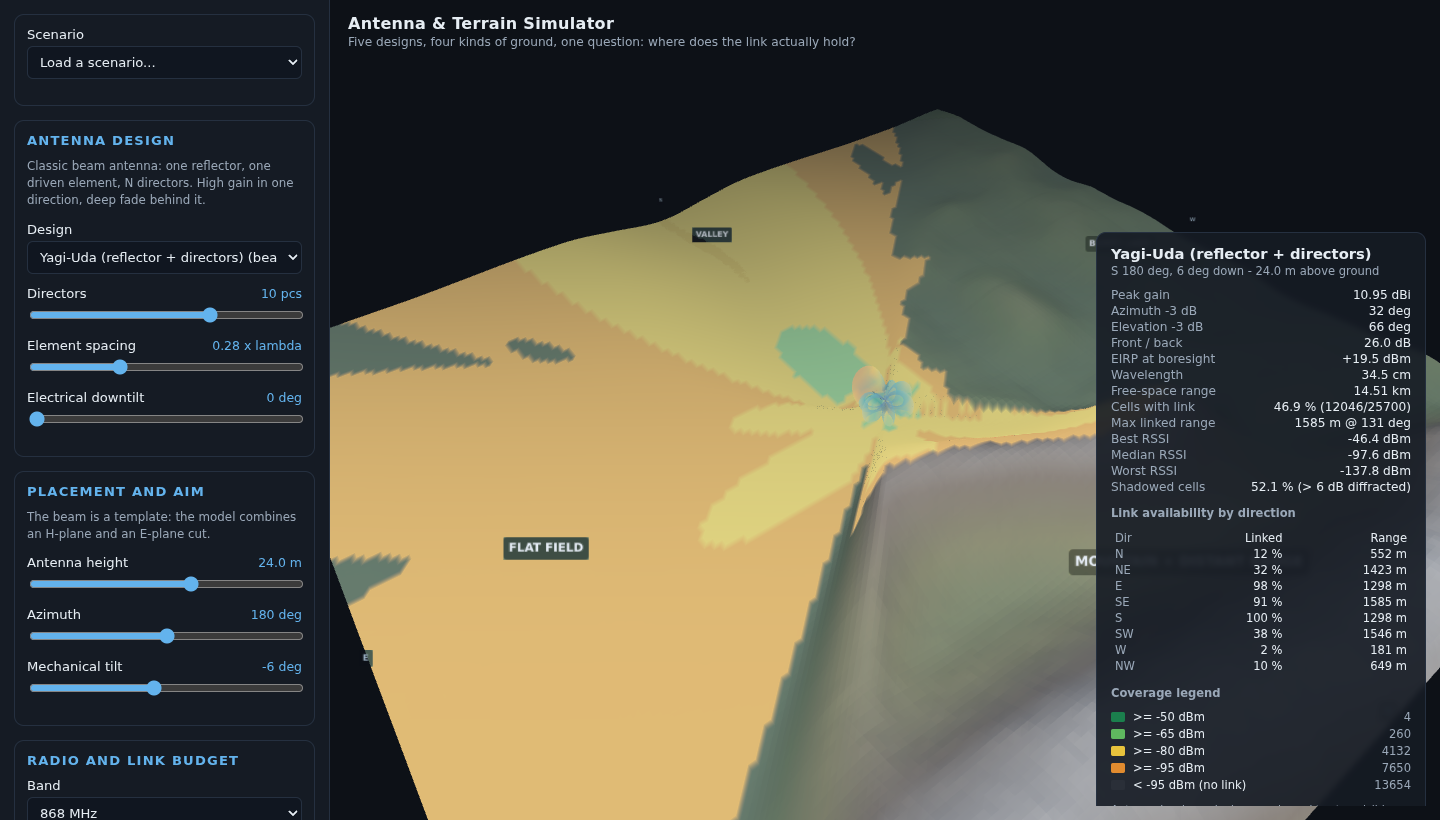
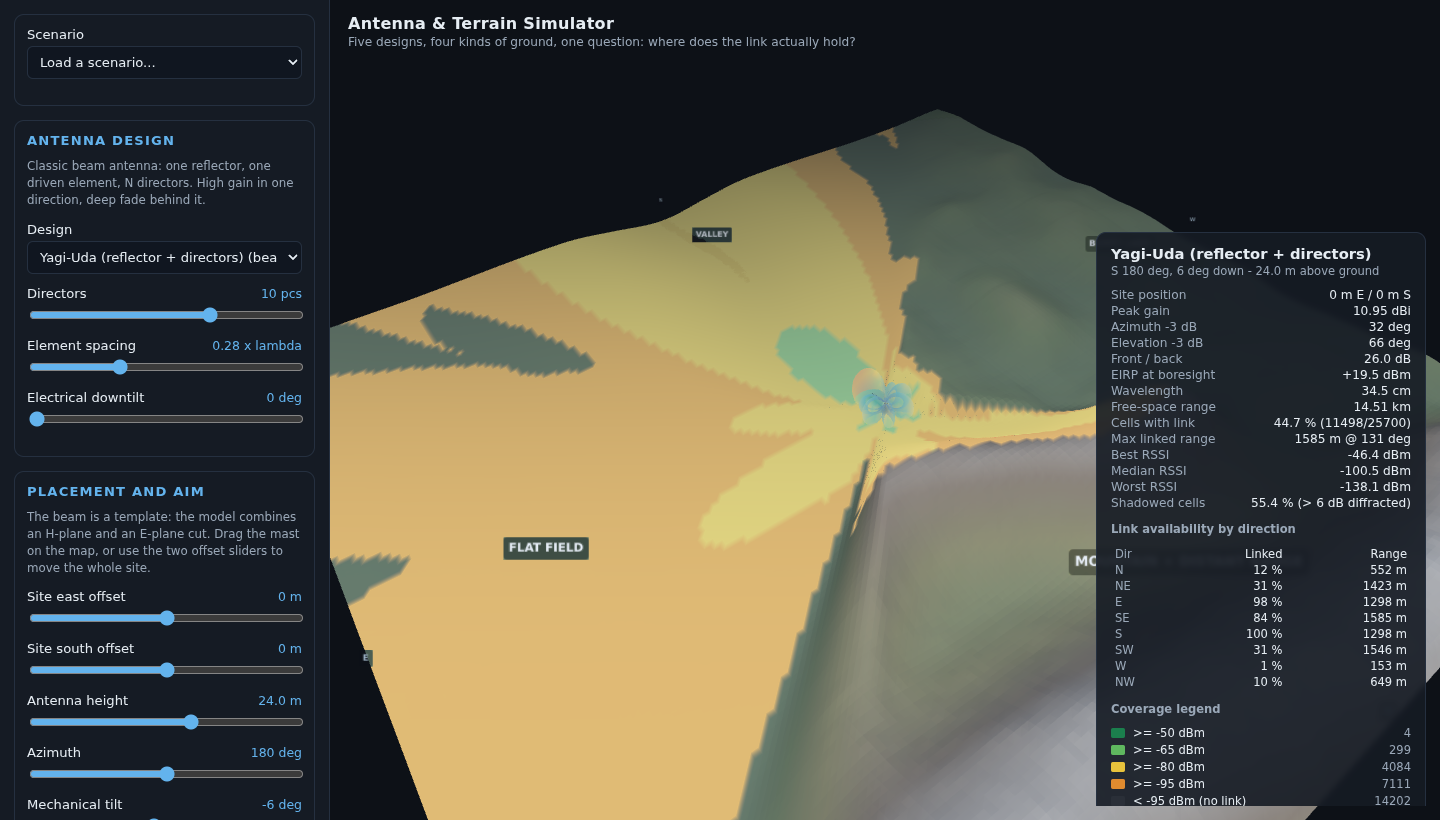
terrain: cut the site pad level with the mast's own ground, keep the valley in the south
Two connected defects made a relocated mast reshape the map:

- gradePadLevel averaged the natural ground over the whole blend reach (108 m),
  so on a ridge flank the ridge dominated the average and the platform stood tens
  of metres above the ground beside it - the hillside appeared to grow sideways
  under the antenna. The pad is now cut level with the natural ground where the
  mast stands (ctx.padElevation = naturalHeightAt(site)), a bench that cuts the
  uphill side and fills the downhill side by the local relief and no more.
- the valley floor is measured across x, so it ran the whole north-south length of
  the map: a trench through the mountain sector and through the site at the centre
  (the map centre sat at -30 m, which is why the pad needed a 37 m fill under it).
  TERRAIN.valley.northLimit/southLimit now fade the channel out north of the site,
  which is what README and GUIDELINES always claimed: a valley to the south.

Tests: pad level equals the ground at the mast at ridge corners, hilltop, valley
and centre; the pad stops at its own reach (ground 200 m away is untouched by where
the mast stands); the valley channel stays south. README/GUIDELINES updated and both
docs screenshots regenerated - they predated the placement sliders entirely.

diff --git a/tests/unit/terrain.test.js b/tests/unit/terrain.test.js
@@ -116,37 +116,66 @@ test('terrain: the site pad is flat so the mast does not float', () => {
   assert.ok(Math.abs(inner - outer) < 1, `pad edge step is ${(outer - inner).toFixed(3)} m`);
 });
 
-test('terrain: the pad is graded to the ground under it, never to a fixed height', () => {
-  // The bug this pins: the pad used to be flattened to one datum elevation, so
-  // dragging the mast onto high ground burrowed it in a pit and dropping it in
-  // the valley put it on a pedestal. The platform must follow the surface.
-  const reach = WORLD.sitePadRadius * WORLD.sitePadBlendFactor;
+test('terrain: the pad is cut level with the ground the mast stands on', () => {
+  // Two bugs this pins, both from grading the pad to something other than the
+  // ground under the mast: a fixed datum buries the mast on a hilltop and puts it
+  // on a pedestal in the valley; averaging the surrounding ground (worse over the
+  // wide blend reach) lets a ridge flank lift the platform tens of metres above
+  // the ground beside it, so the hillside appears to grow sideways under it.
+  const pad = WORLD.sitePadRadius;
   const spots = Object.entries({
+    'ridge corner': { x: 500, z: -600 },
+    'ridge corner W': { x: -500, z: -600 },
     'high ground': { x: 0, z: -900 },
     'valley floor': { x: 0, z: 900 },
-    slope: { x: -600, z: -600 },
     'map centre': { x: 0, z: 0 },
   });
   for (const [label, spot] of spots) {
     const placed = createTerrainContext({ seed: TERRAIN.seed, worldSize: WORLD.worldSize, siteX: spot.x, siteZ: spot.z });
-    // Where the mast lands, the drawn ground is exactly the pad level...
-    assert.ok(approxEqual(heightAt(spot.x, spot.z, placed), placed.padElevation, 1e-6), `${label}: base is the pad`);
-    // ...and that level sits inside the range of the real ground around it, so it
-    // is a graded platform rather than a hole dug to a datum or a filled tower.
+    const ground = naturalHeightAt(spot.x, spot.z, placed);
+    assert.ok(approxEqual(placed.padElevation, ground, 1e-9), `${label}: pad sits ${placed.padElevation - ground} m off the ground`);
+    assert.ok(approxEqual(heightAt(spot.x, spot.z, placed), ground, 1e-9), `${label}: the mast is not on the ground`);
+    assert.ok(approxEqual(heightAt(spot.x + pad * 0.9, spot.z - pad * 0.4, placed), ground, 1e-9), `${label}: the platform is not level`);
+
+    // A bench, not a landform: within the flat disc the pad may only differ from
+    // the natural surface by the relief that is already there.
     let low = Infinity;
     let high = -Infinity;
     for (let a = 0; a < 16; a += 1) {
-      const ring = naturalHeightAt(spot.x + reach * Math.cos((a / 16) * Math.PI * 2),
-        spot.z + reach * Math.sin((a / 16) * Math.PI * 2), placed);
-      low = Math.min(low, ring);
-      high = Math.max(high, ring);
+      for (const r of [pad * 0.5, pad]) {
+        const ring = naturalHeightAt(spot.x + r * Math.cos((a / 16) * Math.PI * 2),
+          spot.z + r * Math.sin((a / 16) * Math.PI * 2), placed);
+        low = Math.min(low, ring);
+        high = Math.max(high, ring);
+      }
     }
-    assert.ok(placed.padElevation > low - 1 && placed.padElevation < high + 1,
-      `${label}: pad at ${placed.padElevation.toFixed(0)} m, surrounding ground ${low.toFixed(0)}..${high.toFixed(0)} m`);
+    assert.ok(ground >= low - 1e-9 && ground <= high + 1e-9,
+      `${label}: ground at the mast ${ground.toFixed(0)} m, ground around it ${low.toFixed(0)}..${high.toFixed(0)} m`);
   }
-  // High ground stays high: 8 m above the datum is a valley number, not a hilltop one.
+  // High ground stays high: one fixed number for every pad is a valley number.
   const hill = createTerrainContext({ seed: TERRAIN.seed, worldSize: WORLD.worldSize, siteX: 0, siteZ: -900 });
   assert.ok(hill.padElevation > 100, `a mountaintop pad should be up the mountain, got ${hill.padElevation.toFixed(0)} m`);
+});
+
+test('terrain: the valley channel stays south of the site instead of cutting the map', () => {
+  // The valley floor is measured across x, so without a meridional fade it runs
+  // the whole north-south length of the map: a trench through the mountain sector
+  // and through the site at the centre, which then needs a 30 m fill under it.
+  const valley = ZONE_HEIGHT_FN[ZONES.VALLEY];
+  for (const z of [-1100, -800, -400, -200, -100]) {
+    assert.ok(valley(0, z, ctx) >= valley(500, z, ctx) - 5,
+      `z=${z}: the valley axis (${valley(0, z, ctx).toFixed(0)} m) is still cut below its shoulder (${valley(500, z, ctx).toFixed(0)} m)`);
+  }
+  // And in the south it is still the valley the README describes: a floor with
+  // raised rims either side of it.
+  assert.ok(valley(0, 900, ctx) < valley(500, 900, ctx) - 20, 'the southern valley stopped being a valley');
+  const floor = naturalHeightAt(0, 900, ctx);
+  const rim = Math.max(naturalHeightAt(350, 900, ctx), naturalHeightAt(-350, 900, ctx));
+  const outside = naturalHeightAt(900, 900, ctx);
+  assert.ok(rim > floor + 20, `valley floor ${floor.toFixed(0)} m should be well below its rim ${rim.toFixed(0)} m`);
+  assert.ok(rim > outside, `the rim (${rim.toFixed(0)} m) should stand above the ground beyond it (${outside.toFixed(0)} m)`);
+  // The site at the centre no longer sits in a pothole that has to be filled in.
+  assert.ok(Math.abs(ctx.padElevation) < 20, `the pad at the map centre needs a ${ctx.padElevation.toFixed(0)} m fill`);
 });
 
 test('terrain: profileAlong walks outward from the origin', () => {
@@ -211,11 +240,13 @@ test('terrain: the flattened pad travels with the site', () => {
   }
 
   // The pad is a property of the site, not of the map: with the site gone, the
-  // map centre is natural ground again.
+  // ground it used to flatten is natural ground again.
   assert.ok(approxEqual(heightAt(0, 0, moved), naturalHeightAt(0, 0, moved), 1e-6),
     `the abandoned centre is still a pad (${heightAt(0, 0, moved).toFixed(2)} m)`);
-  assert.ok(heightAt(0, 0, ctx) !== naturalHeightAt(0, 0, ctx),
-    'the default context keeps its graded pad at the centre');
+  assert.ok(approxEqual(heightAt(30, 0, ctx), heightAt(0, 0, ctx), 1e-6),
+    'the default context keeps its pad over the centre');
+  assert.ok(!approxEqual(heightAt(30, 0, moved), heightAt(0, 0, moved), 1e-6),
+    'the moved pad still flattens ground it no longer owns');
 
   // Relocating the antenna does not relocate the mountain.
   assert.equal(zoneAt(0, -700, moved), ZONES.MOUNTAIN, 'the zones stay keyed to the map centre');

diff --git a/src/terrain/generators.js b/src/terrain/generators.js
@@ -13,9 +13,11 @@
  *
  * The zones belong to the map; the flattened **site pad** belongs to the antenna
  * and is centred on `siteX`/`siteZ` (the map centre unless the user relocates it).
- * The pad is graded to the *average natural ground under it*, never to a fixed
- * elevation: move the mast onto a hill and the platform rides up with the hill,
- * so the mast always stands on the surface rather than at the bottom of a pit.
+ * The pad is cut level with the *natural ground where the mast stands*, never to a
+ * fixed elevation: move the mast onto a hill and the platform rides up with the
+ * hill, so the mast always stands on the surface rather than at the bottom of a
+ * pit, and the bench can never stand above the ground beside it and make a
+ * hillside look like it grew.
  *
  * Zone heights cross-fade over `TERRAIN.blendBand` of the angular sector, which
  * keeps the surface C0-continuous without hard seams.
@@ -106,8 +108,11 @@ function valleyHeight(x, z, ctx) {
   const cfg = TERRAIN.valley;
   const meander = cfg.meander * ((fbm2(z * 0.0012, 12.5, { seed: ctx.seed + 21, octaves: 2 }) - 0.5) * 2);
   const lateral = Math.abs(x - meander);
-  const floor = cfg.depth * bump(lateral, cfg.halfWidth);
-  const rim = cfg.rimHeight * smoothstep(cfg.halfWidth, cfg.halfWidth * 2.1, lateral)
+  // A valley runs away from the site, not through it: the floor and its rims fade
+  // out north of the centre so the channel stays in the southern half of the map.
+  const meridional = smoothstep(cfg.northLimit, cfg.southLimit, z / ctx.half);
+  const floor = cfg.depth * meridional * bump(lateral, cfg.halfWidth);
+  const rim = cfg.rimHeight * meridional * smoothstep(cfg.halfWidth, cfg.halfWidth * 2.1, lateral)
     * (1 - smoothstep(cfg.rimWidth, cfg.rimWidth * 1.9, lateral));
   return regional(x, z, ctx) + rim - floor;
 }
@@ -194,27 +199,19 @@ export function naturalHeightAt(x, z, ctx) {
 }
 
 /**
- * The level the pad is cut and filled to: the average natural ground over the
- * disc the pad blends into. Averaging is what keeps the platform honest in both
- * directions - a point sample would drop a mast on a slope into a trench, and a
- * fixed datum would bury it on high ground and put it on a pedestal in a valley.
- * Computed once per context (a handful of samples), never per query.
+ * The level the pad is cut to: the natural ground **where the mast stands**.
+ * Three rules were tried and only this one survives both ways the wrong choice
+ * shows up: a fixed datum buries the mast on a hilltop and puts it on a pedestal
+ * in a valley; averaging the wider blend reach lets a ridge flank dominate the
+ * average, so the platform stands tens of metres above the ground beside it and
+ * the hillside appears to grow sideways under the antenna; averaging even the flat
+ * disc still shifts the platform a dozen metres off the mast's own ground where
+ * the relief is asymmetric. Cut level with the mast's own ground, the pad is a
+ * bench: it cuts the uphill side and fills the downhill side by the same local
+ * relief, never more, and it cannot invent a landform.
  */
 function gradePadLevel(ctx) {
-  const reach = ctx.padRadius * ctx.padBlendFactor;
-  const step = reach / 3;
-  let sum = 0;
-  let samples = 0;
-  for (let iz = -3; iz <= 3; iz += 1) {
-    for (let ix = -3; ix <= 3; ix += 1) {
-      const dx = ix * step;
-      const dz = iz * step;
-      if (Math.hypot(dx, dz) > reach) continue;
-      sum += naturalHeightAt(ctx.siteX + dx, ctx.siteZ + dz, ctx);
-      samples += 1;
-    }
-  }
-  return samples > 0 ? sum / samples : naturalHeightAt(ctx.siteX, ctx.siteZ, ctx);
+  return naturalHeightAt(ctx.siteX, ctx.siteZ, ctx);
 }
 
 /**

diff --git a/tests/browser/relocate.test.js b/tests/browser/relocate.test.js
@@ -106,6 +106,43 @@ test('browser: the mast stays on the surface on high ground and in the valley', 
   });
 });
 
+test('browser: the site pad stops at its own reach', async () => {
+  await withApp(async (session) => {
+    // Regression: with the pad graded to the average of the ground around it, a
+    // mast on a ridge flank lifted the surface tens of metres above the valley
+    // beside it - the mountain appeared to grow sideways under the antenna. The
+    // pad may level the ground it stands on, nothing beyond its blend reach.
+    const probes = [[0, -200], [0, 200], [200, 0], [-200, 0], [140, -140], [-140, 140]];
+    const probe = async () => {
+      const out = [];
+      for (const [dx, dz] of probes) out.push(await session.sim('heightAt', 500 + dx, -600 + dz));
+      return out;
+    };
+
+    await session.patch({ site: { x: 500, z: -600 } });
+    await session.settle();
+    const site = await session.sim('site');
+    assert.ok(almost(site.groundY, await session.sim('heightAt', 500, -600), 1e-6), 'the mast is not on its pad');
+    // Flat across the platform: the grid is sampled between cells, so allow half a
+    // metre - the relief this is measured against is tens of metres.
+    for (const [px, pz] of [[515, -610], [530, -625], [478, -583]]) {
+      assert.ok(almost(site.groundY, await session.sim('heightAt', px, pz), 0.5),
+        `the platform is not level at (${px}, ${pz})`);
+    }
+    const withPadHere = await probe();
+
+    await session.patch({ site: { x: -900, z: 900 } });
+    await session.settle();
+    const afterItLeft = await probe();
+    for (let i = 0; i < probes.length; i += 1) {
+      assert.ok(almost(withPadHere[i], afterItLeft[i], 1e-6),
+        `the pad still shapes ground 200 m from the mast: ${withPadHere[i]} vs ${afterItLeft[i]}`);
+    }
+    // And the platform itself was real: flat, and at the mast's own ground level.
+    assert.deepEqual(session.errors(), []);
+  });
+});
+
 test('browser: grabbing the mast and dragging moves the site', async () => {
   await withApp(async (session) => {
     await session.settle();

diff --git a/src/config.js b/src/config.js
@@ -19,8 +19,8 @@ export const WORLD = Object.freeze({
   maxGridSize: 321,
   sitePadRadius: 45, // metres of flattened ground directly under the antenna
   // How far beyond that radius the flattened ground cross-fades back into the
-  // natural surface. The pad is graded to the average natural ground inside this
-  // reach, so it follows the terrain instead of sitting at a fixed datum.
+  // natural surface. The pad is cut level with the ground the mast stands on, so
+  // it follows the terrain instead of sitting at a fixed datum.
   sitePadBlendFactor: 2.4,
 });
 
@@ -30,7 +30,21 @@ export const TERRAIN = Object.freeze({
   regionalAmplitude: 7,
   regionalFrequency: 0.0009,
   flat: Object.freeze({ roughness: 1.4, label: 'Flat field' }),
-  valley: Object.freeze({ depth: 36, halfWidth: 165, rimHeight: 9, rimWidth: 430, meander: 120 }),
+  /**
+   * The channel is a southern feature. `northLimit` / `southLimit` are fractions
+   * of the map half-extent: the floor and its rims are fully closed at northLimit
+   * (north of the site) and reach full depth at southLimit. Without that fade the
+   * valley cuts a gash through the whole map, mountain sector and site included.
+   */
+  valley: Object.freeze({
+    depth: 36,
+    halfWidth: 165,
+    rimHeight: 9,
+    rimWidth: 430,
+    meander: 120,
+    northLimit: -0.06,
+    southLimit: 0.2,
+  }),
   bumps: Object.freeze({ amplitude: 34, radius: 110, density: 0.75, spacingFactor: 1.4, fineNoise: 3.2 }),
   mountain: Object.freeze({
     peak: 190,

diff --git a/README.md b/README.md
@@ -50,9 +50,10 @@ an edited import map, and `npm run vendor` tells you which.
   not the middle of it. The mast is drawn at true height;
   the antenna body is enlarged so you can see what it is - treat the hardware as
   "not to scale". The ground is flattened into a pad around wherever the site
-  stands, and that pad is graded level with the ground around it - up on a hilltop,
+  stands, cut level with the ground the mast stands on - up on a hilltop,
   down on a valley floor - so the mast always stands on the surface and the
-  *Antenna height* you set is always measured from the ground it stands on.
+  *Antenna height* you set is always measured from the ground it stands on. The
+  pad stops about a hundred metres from the mast; it does not reshape the map.
 - **The radiation lobe**: a 3D surface of the antenna's own gain, cut off 30 dB
   below the peak. It shows the shape of the antenna, not its range.
 - **The coverage overlay**: signal level painted onto the ground, measured where
@@ -78,7 +79,7 @@ Left panel, top to bottom:
 | --- | --- |
 | **Scenario** | Five ready-made setups to load (see below). |
 | **Antenna design** | Which of the five designs, plus that design's own parameters (number of directors, loop turns, patch size, ...). |
-| **Placement and aim** | Site position: east offset and south offset, −1200 to +1200 m in 5 m steps (the same numbers a drag writes). Height above ground (0.5–40 m, measured from the ground the pad is graded to), azimuth (0–360°, 0 = north), mechanical tilt (−60° to +60°, negative is downtilt). |
+| **Placement and aim** | Site position: east offset and south offset, −1200 to +1200 m in 5 m steps (the same numbers a drag writes). Height above ground (0.5–40 m, measured from the ground the pad is cut to), azimuth (0–360°, 0 = north), mechanical tilt (−60° to +60°, negative is downtilt). |
 | **Radio and link budget** | Band (433 / 868 / 915 / 2400 / 5800 MHz), transmitter power (−10…43 dBm), feeder loss, receiver sensitivity, evaluation range, clutter loss, and a switch for terrain shadowing. |
 | **Terrain** | The terrain seed. Same seed always gives the same ground. |
 | **Display** | Coverage overlay, radiation pattern, terrain mesh, zone labels. |

diff --git a/GUIDELINES.md b/GUIDELINES.md
@@ -240,13 +240,21 @@ UI widget ──patch──▶ applyPatch()  ──▶ state (immutable)
 - **Terrain** is a height field on an odd-sized grid (so the site lands exactly
   on a cell centre), built from four angular zones - mountain (N) with a taller
   distant range, flat field (E), valley (S), bumps (W) - blended across
-  `TERRAIN.blendBand`. The **site pad** is flattened within
+  `TERRAIN.blendBand`. The **valley is a southern feature**: its floor and rims
+  fade out north of the site (`TERRAIN.valley.northLimit` / `southLimit`, fractions
+  of the half-extent), because the floor is measured across `x` and would otherwise
+  cut a trench the whole length of the map - through the mountain sector and
+  through the site itself. The **site pad** is flattened within
   `WORLD.sitePadRadius` *around the site* and cross-fades back to the natural
   surface by `WORLD.sitePadRadius * WORLD.sitePadBlendFactor`, so the mast never
-  floats or buries. The pad is **graded to the average natural ground inside that
-  reach** (`ctx.padElevation`, sampled once per context) and never to a fixed
-  elevation - a fixed datum buries the mast on a hilltop and puts it on a pedestal
-  in a valley, which is exactly the bug this rule prevents. Because the pad is
+  floats or buries. The pad is **cut level with the natural ground where the mast
+  stands** (`ctx.padElevation`) and never to a fixed elevation or a neighbourhood
+  average: a fixed datum buries the mast on a hilltop and puts it on a pedestal in a
+  valley, and averaging the surrounding ground lets a ridge flank lift the platform
+  tens of metres above the ground beside it, which reads as the hillside growing
+  sideways under the antenna. Cut level with the mast's own ground, the pad is a
+  bench - it cuts the uphill side and fills the downhill side by the local relief
+  and no more. Because the pad is
   baked into the height field, `state.site` is part of the
   terrain cache key: relocating the mast re-runs the terrain stage (and therefore
   coverage and scene) even though the zones and the noise did not change.
